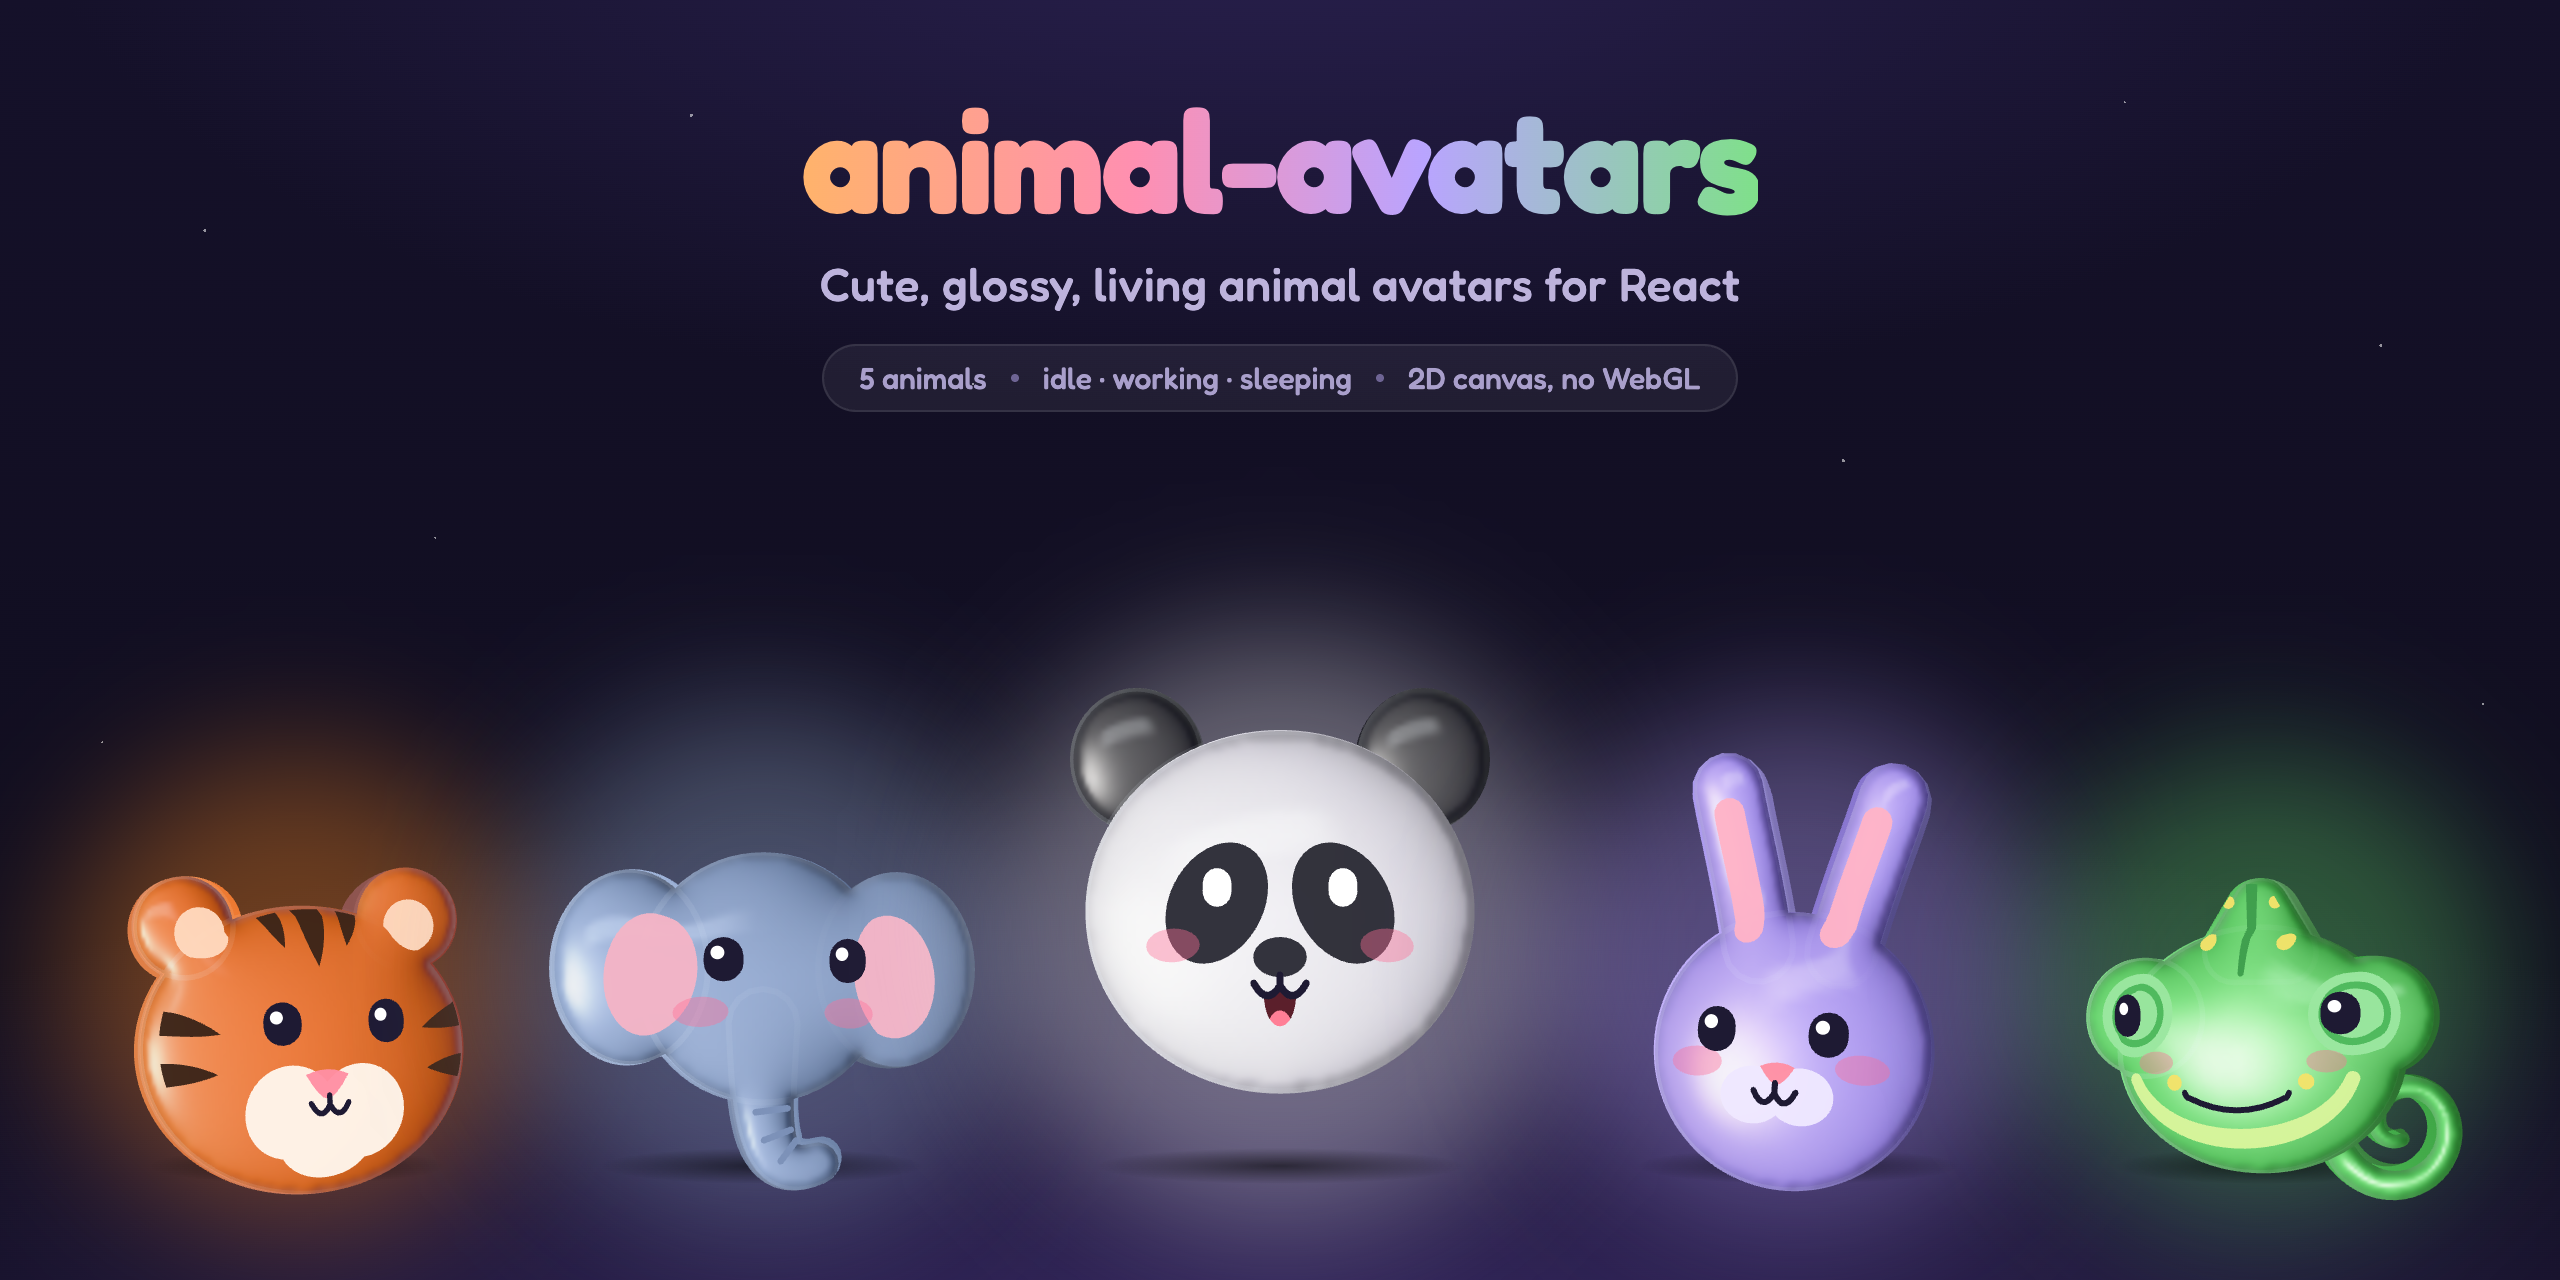
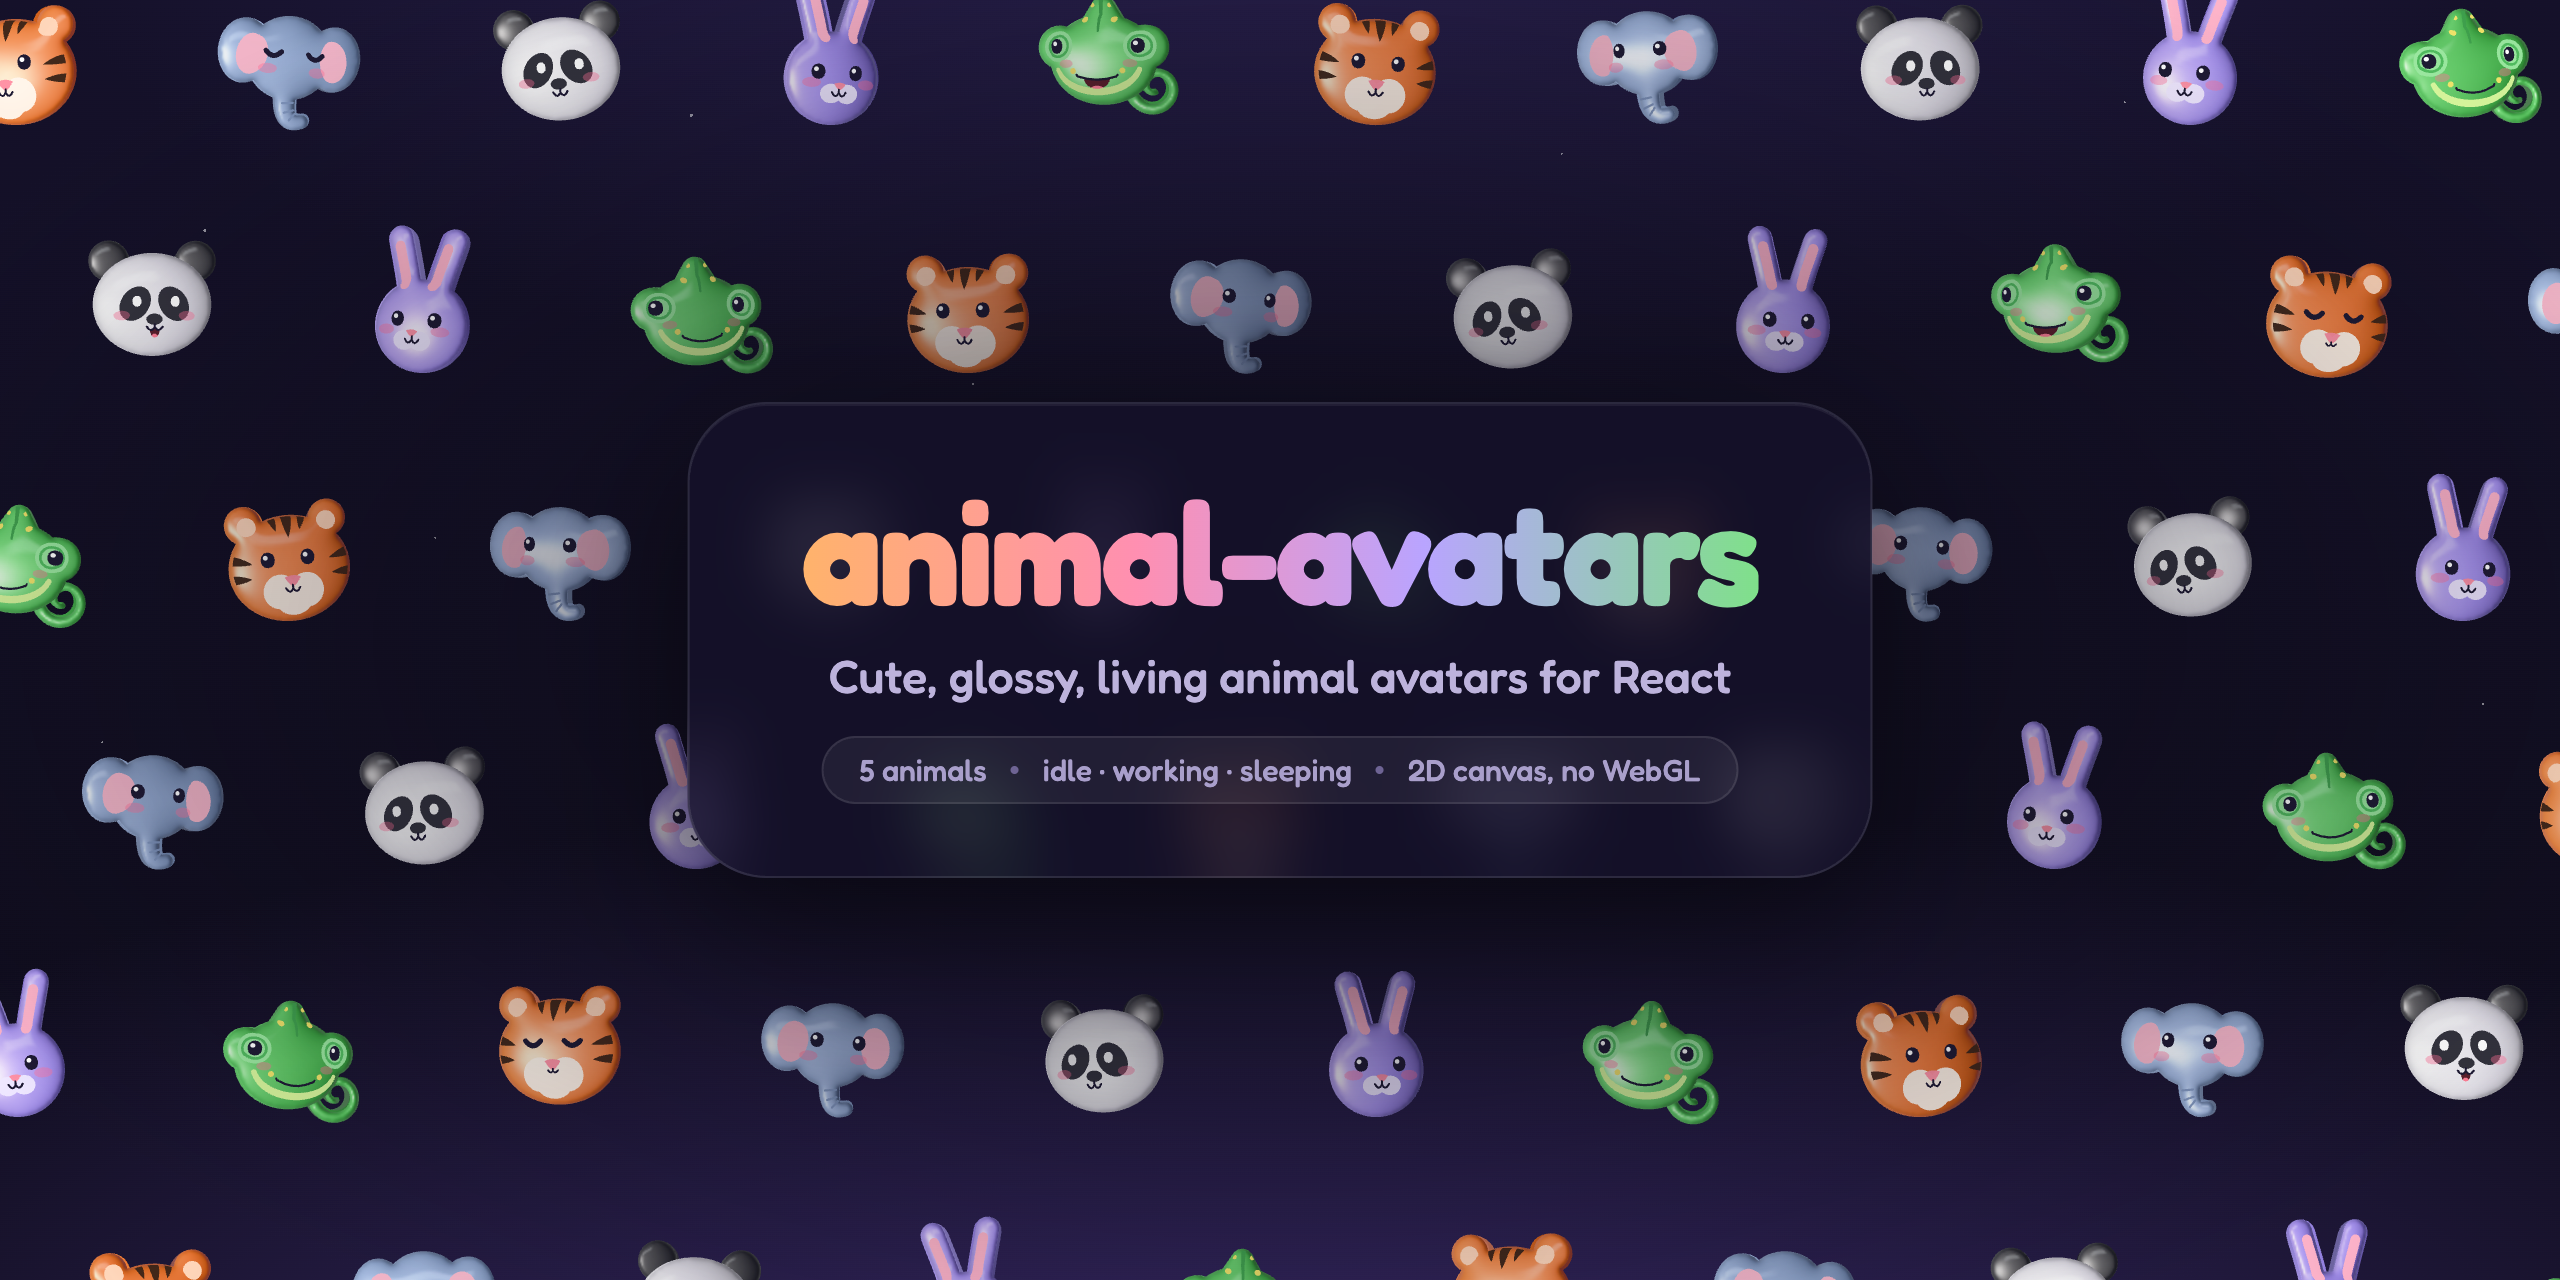
README hero: the animals as a repeating pattern
A staggered grid of all five, each tile with its own turn and tilt, a
few asleep or mid-hop, under a title plate; light and dark.

diff --git a/demo/hero.tsx b/demo/hero.tsx
@@ -1,4 +1,5 @@
-/* The README's hero: every animal frozen in a chosen pose on one stage.
+/* The README's hero: the animals as a repeating pattern, the title on a
+   plate in the middle.
    Open /hero.html (dark) or /hero.html?theme=light and screenshot #hero
    at 1280×640, 2×. */
 import { useEffect, useRef } from 'react';
@@ -9,15 +10,32 @@ const DEG = Math.PI / 180;
 
 type Cast = { type: AnimalAvatarType; size: number; state?: AnimalAvatarState; pose: Partial<AnimalAvatarPose> };
 
-const CAST: Cast[] = [
-  { type: 'tiger', size: 212, pose: { yaw: 16 * DEG, pitch: 3 * DEG, lookX: 3, roll: -3 * DEG } },
-  { type: 'elephant', size: 232, pose: { yaw: 9 * DEG, pitch: 4 * DEG, lookX: 2.5, lookY: -1 } },
-  { type: 'panda', size: 264, state: 'working', pose: { yaw: 0, pitch: 6 * DEG, y: -14, sy: 1.04, sx: 0.97, lookY: -1.5 } },
-  { type: 'bunny', size: 232, pose: { yaw: -9 * DEG, pitch: 3 * DEG, lookX: -2, roll: 4 * DEG } },
-  { type: 'chameleon', size: 212, pose: { yaw: -16 * DEG, pitch: 2 * DEG, lookX: -3 } },
-];
+/* The pattern: a staggered grid, every row shifted half a cell and two
+   animals along, so no animal stacks over itself; each tile gets its own
+   turn and tilt, and now and then one is asleep or mid-hop. */
+const CELL_X = 136, CELL_Y = 124, TILE = 78;
+const ORDER: AnimalAvatarType[] = ['tiger', 'elephant', 'panda', 'bunny', 'chameleon'];
+const YAWS = [-18, 10, -6, 16, -12, 4];
+const ROLLS = [-6, 3, 0, 5, -3, -1, 6];
+const tiles: (Cast & { x: number; y: number; key: string })[] = [];
+for (let row = -1; row <= 5; row++) {
+  for (let col = -1; col <= 9; col++) {
+    const n = (row + 1) * 11 + col + 1;
+    const type = ORDER[(((col + row * 2) % 5) + 5) % 5];
+    const sleeping = n % 9 === 4, working = n % 7 === 2;
+    tiles.push({
+      key: `${row}:${col}`,
+      type,
+      size: TILE,
+      state: sleeping ? 'sleeping' : working ? 'working' : 'default',
+      x: col * CELL_X + (row % 2 ? CELL_X / 2 : 0) + 8,
+      y: row * CELL_Y + 22,
+      pose: { yaw: YAWS[n % YAWS.length] * DEG, roll: ROLLS[n % ROLLS.length] * DEG, pitch: 3 * DEG, lookX: ((n % 5) - 2) * 1.2, ...(working ? { y: -8 } : {}) },
+    });
+  }
+}
 
-function Character({ type, size, state = 'default', pose }: Cast) {
+function Tile({ type, size, state = 'default', pose, x, y }: Cast & { x: number; y: number }) {
   const ref = useRef<HTMLCanvasElement>(null);
   useEffect(() => {
     const c = ref.current!;
@@ -26,23 +44,15 @@ function Character({ type, size, state = 'default', pose }: Cast) {
     c.width = c.height = Math.round(size * ANIMAL_AVATAR_OVERSCAN * dpr);
     const ctx = c.getContext('2d')!;
     ctx.setTransform(dpr, 0, 0, dpr, 0, 0);
-    const face = type === 'elephant' ? 'eyes' : 'mouth';
     drawAnimalAvatarFrame(ctx, size, { ...restPose(state), ...pose } as AnimalAvatarPose, {
-      path: new Path2D(animalAvatarShapes[type]), face, faceX: p.faceX, faceY: p.faceY, faceScale: p.faceScale,
+      path: new Path2D(animalAvatarShapes[type]), face: p.face, faceX: p.faceX, faceY: p.faceY, faceScale: p.faceScale,
       color: p.color, ink: autoInk(p.color), shading: 'plastic', typeKey: type, still: true, dpr,
       parts: animalAvatarParts[type] ? new Path2D(animalAvatarParts[type] as string) : undefined, partsColor: p.partsColor, partsDepth: p.partsDepth,
       markings: animalAvatarMarkings[type], dome: p.dome, eyes: p.eyes, mouth: p.mouth,
     });
   }, [type, size, state, pose]);
   const css = size * ANIMAL_AVATAR_OVERSCAN;
-  const glow = animalAvatarPresets[type].color;
-  return (
-    <div className="char" style={{ margin: `0 ${-css * 0.16}px` }}>
-      <div className="glow" style={{ width: size * 1.1, height: size * 1.1, background: glow }} />
-      <div className="floor" style={{ width: size * 0.7 }} />
-      <canvas ref={ref} style={{ width: css, height: css, margin: `${-css * 0.17}px 0 ${-css * 0.1}px` }} />
-    </div>
-  );
+  return <canvas ref={ref} className="tile" style={{ left: x - css / 2, top: y - css / 2, width: css, height: css }} />;
 }
 
 const theme = new URLSearchParams(location.search).get('theme') === 'light' ? 'light' : 'dark';
@@ -50,13 +60,12 @@ const theme = new URLSearchParams(location.search).get('theme') === 'light' ? 'l
 function Hero() {
   return (
     <div id="hero" data-theme={theme}>
-      <div className="title">
+      <div className="pattern">{tiles.map(({ key, ...t }) => <Tile key={key} {...t} />)}</div>
+      <div className="veil" />
+      <div className="plate">
         <h1><span>animal-avatars</span></h1>
         <p>Cute, glossy, living animal avatars for React</p>
         <div className="facts"><span>5 animals</span><i /><span>idle · working · sleeping</span><i /><span>2D canvas, no WebGL</span></div>
-      </div>
-      <div className="stage">
-        {CAST.map((c) => <Character key={c.type} {...c} />)}
       </div>
     </div>
   );

diff --git a/demo/hero.html b/demo/hero.html
@@ -72,6 +72,24 @@
     #hero[data-theme="light"] .facts i { background: #B4A9D6; }
     #hero[data-theme="light"] .glow { opacity: .3; }
     #hero[data-theme="light"] .floor { background: radial-gradient(closest-side, rgba(70,50,130,.28), rgba(70,50,130,0)); }
+    /* the pattern layout */
+    .pattern { position: absolute; inset: 0; }
+    .tile { position: absolute; display: block; }
+    .veil { position: absolute; inset: 0; background: radial-gradient(60% 62% at 50% 50%, rgba(14,12,26,.62) 0%, rgba(14,12,26,.18) 70%, rgba(14,12,26,0) 100%); }
+    #hero[data-theme="light"] .veil { background: radial-gradient(60% 62% at 50% 50%, rgba(247,244,255,.66) 0%, rgba(247,244,255,.2) 70%, rgba(247,244,255,0) 100%); }
+    .plate {
+      position: absolute; left: 50%; top: 50%; transform: translate(-50%, -50%);
+      padding: 38px 56px 36px; border-radius: 40px; text-align: center; white-space: nowrap;
+      background: rgba(21,17,42,.78); border: 1px solid rgba(255,255,255,.1);
+      box-shadow: 0 24px 70px rgba(0,0,0,.45), inset 0 1px 0 rgba(255,255,255,.06);
+      backdrop-filter: blur(14px); -webkit-backdrop-filter: blur(14px);
+    }
+    #hero[data-theme="light"] .plate { background: rgba(252,250,255,.84); border-color: rgba(90,70,160,.14); box-shadow: 0 24px 60px rgba(70,50,130,.18), inset 0 1px 0 #fff; }
+    .plate h1 { margin: 0; font-size: 72px; font-weight: 700; letter-spacing: -1.5px; line-height: 1; }
+    .plate h1 span { background: linear-gradient(90deg, #FFB36B, #FF8FB1 35%, #B9A4FF 65%, #7FE08A); -webkit-background-clip: text; background-clip: text; color: transparent; }
+    #hero[data-theme="light"] .plate h1 span { background-image: linear-gradient(90deg, #FF7A2E, #EE4F86 35%, #8363FF 65%, #2FB553); }
+    .plate p { margin: 12px 0 0; font-size: 23px; font-weight: 500; color: #BDB3DC; }
+    #hero[data-theme="light"] .plate p { color: #5E5387; }
   </style>
 </head>
 <body>
